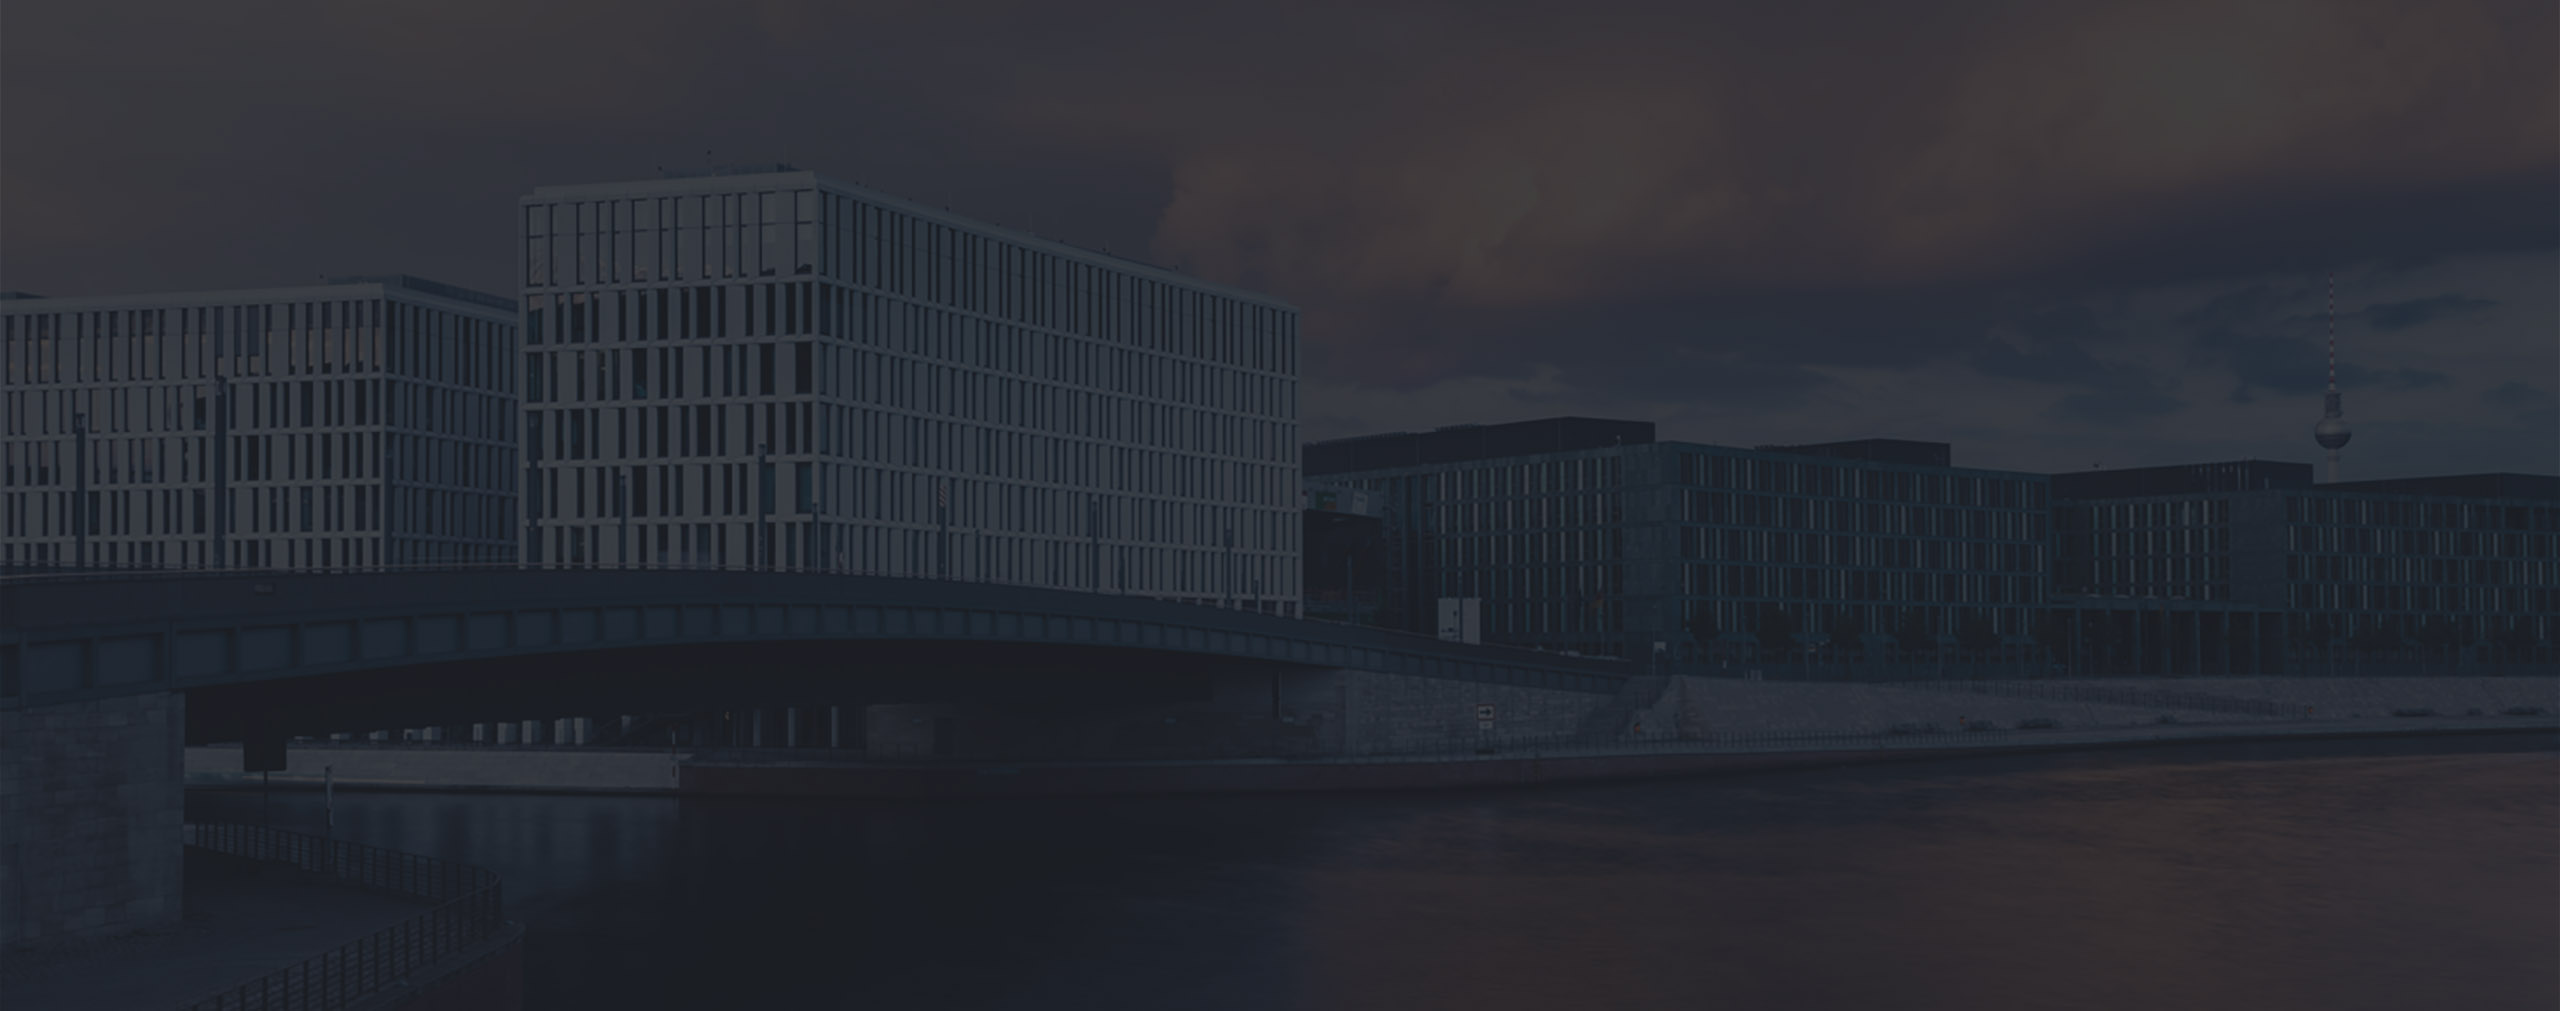
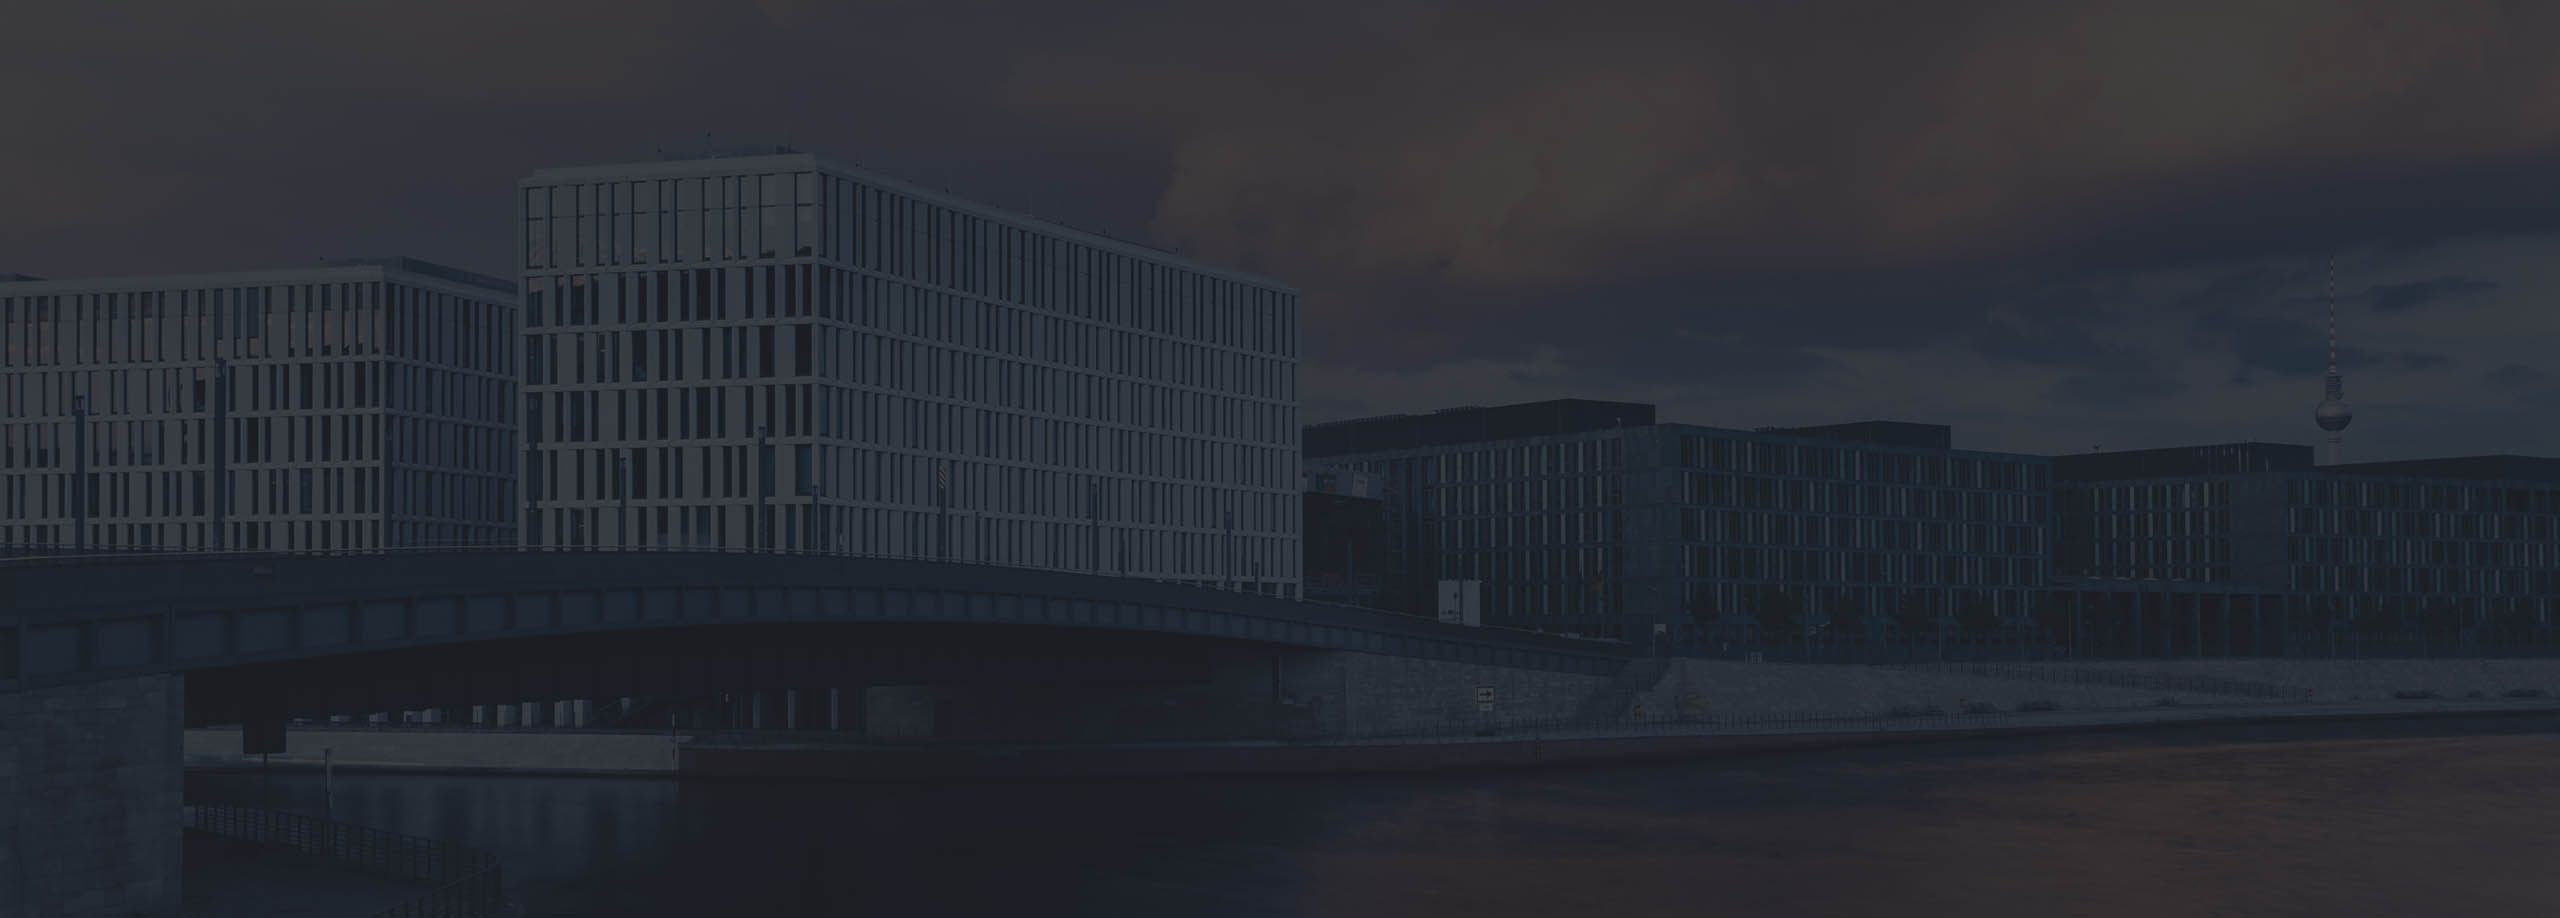
Improved bg image + improved form design

diff --git a/app/views/index.scala.html b/app/views/index.scala.html
@@ -76,26 +76,26 @@
               <div class="window-button"></div>
             </div>
             <div class="window-body">
-              <div class="form-code-i1"><span class="form-code-keyword">subscription</span> <span class="form-code-normal">@("{")</span></div>
-              <div class="form-code-i2"><span class="form-code-keyword">conferenceUpdates</span><span class="form-code-normal">(</span></div>
-              <div class="form-code-i3"><label for="topRegisterName" class="form-code-comment"># enter your name</label></div>
-              <div class="form-code-i3"><label for="topRegisterName" class="form-code-keyword">name</label><span class="form-code-normal">:</span> <span class="form-code-input">"<input type="text" class="form-control hidden-input" id="topRegisterName">"</span></div>
-              <div class="form-code-i3"><label for="topRegisterEmail" class="form-code-comment"># enter your email</label></div>
-              <div class="form-code-i3"><label for="topRegisterEmail" class="form-code-keyword">email</label><span class="form-code-normal">:</span> <span class="form-code-input">"<input type="text" class="form-control hidden-input" id="topRegisterEmail">"</span></div>
-              <div class="form-code-i2"><span class="form-code-normal">) {</span> </div>
-              <div class="form-code-i3"><span class="form-code-keyword">message</span></div>
-              <div class="form-code-i2"><span class="form-code-normal">@}</span></div>
-              <div class="form-code-i1"><span class="form-code-normal">}</span></div>
+              <div class="form-code-line-number">1</div><div class="form-code-line form-code-i1"><span class="form-code-keyword">subscription</span> <span class="form-code-normal">@("{")</span></div><br>
+              <div class="form-code-line-number">2</div><div class="form-code-line form-code-i2"><span class="form-code-keyword">conferenceUpdates</span><span class="form-code-normal">(</span></div><br>
+              <div class="form-code-line-number">3</div><div class="form-code-line form-code-i3"><label for="topRegisterName" class="form-code-comment"># enter your name</label></div><br>
+              <div class="form-code-line-number">4</div><div class="form-code-line form-code-i3"><label for="topRegisterName" class="form-code-keyword">name</label><span class="form-code-normal">:</span> <span class="form-code-input">"<input type="text" class="form-control hidden-input" id="topRegisterName">"</span></div><br>
+              <div class="form-code-line-number">5</div><div class="form-code-line form-code-i3"><label for="topRegisterEmail" class="form-code-comment"># enter your email</label></div><br>
+              <div class="form-code-line-number">6</div><div class="form-code-line form-code-i3"><label for="topRegisterEmail" class="form-code-keyword">email</label><span class="form-code-normal">:</span> <span class="form-code-input">"<input type="text" class="form-control hidden-input" id="topRegisterEmail">"</span></div><br>
+              <div class="form-code-line-number">7</div><div class="form-code-line form-code-i2"><span class="form-code-normal">) {</span> </div><br>
+              <div class="form-code-line-number">8</div><div class="form-code-line form-code-i3"><span class="form-code-keyword">message</span></div><br>
+              <div class="form-code-line-number">9</div><div class="form-code-line form-code-i2"><span class="form-code-normal">@}</span></div><br>
+              <div class="form-code-line-number">10</div><div class="form-code-line form-code-i1"><span class="form-code-normal">}</span></div><br>
               <div class="window-result" style="display: none">
-                <div class="form-code-i1"><span class="form-code-normal">@("{")</span></div>
-                <div class="form-code-i2"><span class="form-code-input">"data"</span><span class="form-code-normal">: @("{")</span></div>
-                <div class="form-code-i3"><span class="form-code-input">"conferenceUpdates"</span><span class="form-code-normal">: @("{")</span></div>
-                <div class="form-code-i4"><span class="form-code-input">"message"</span>: <span class="form-code-input">"Thanks for subscribing!"</span></div>
-                <div class="form-code-i3"><span class="form-code-normal">@("}")</span></div>
-                <div class="form-code-i2"><span class="form-code-normal">@("}")</span></div>
-                <div class="form-code-i1"><span class="form-code-normal">@("}")</span></div>
+                <div class="form-code-line form-code-i1"><span class="form-code-normal">@("{")</span></div><br>
+                <div class="form-code-line form-code-i2"><span class="form-code-input">"data"</span><span class="form-code-normal">: @("{")</span></div><br>
+                <div class="form-code-line form-code-i3"><span class="form-code-input">"conferenceUpdates"</span><span class="form-code-normal">: @("{")</span></div><br>
+                <div class="form-code-line form-code-i4"><span class="form-code-input">"message"</span>: <span class="form-code-input">"Thanks for subscribing!"</span></div><br>
+                <div class="form-code-line form-code-i3"><span class="form-code-normal">@("}")</span></div><br>
+                <div class="form-code-line form-code-i2"><span class="form-code-normal">@("}")</span></div><br>
+                <div class="form-code-line form-code-i1"><span class="form-code-normal">@("}")</span></div>
               </div>
-              <button class="execute-button"><svg width="32" height="27"><path d="M 11 9 L 24 16 L 11 23 z" fill="rgb(163, 163, 163)"></path></svg></button>
+              <button class="execute-button"><svg width="32" height="28"><path d="M 11 9 L 24 16 L 11 23 z" fill="rgb(198, 198, 201)"></path></svg></button>
             </div>
           </div>
         </div>

diff --git a/public/lib/index.css b/public/lib/index.css
@@ -60,7 +60,7 @@ body {
 }
 
 .description {
-  font-size: 3vh;
+  font-size: 4vh;
   font-weight: 400;
 }
 
@@ -75,7 +75,7 @@ body {
 }
 
 .location {
-  font-size: 2.5vh;
+  font-size: 3.5vh;
   font-weight: 100;
   padding-top: 15px;
 }
@@ -226,10 +226,18 @@ a:hover, a:active {
   animation-delay: 2.3s;
 }
 
+.subscription-form {
+  -webkit-box-shadow: 0px 10px 120px -2px rgba(31,34,40,0.25);
+  -moz-box-shadow: 0px 10px 120px -2px rgba(31,34,40,0.25);
+  box-shadow: 0px 10px 120px -2px rgba(31,34,40,0.25);
+
+  border-radius: 12px;
+}
+
 .subscription-form .window-header {
   width: 100%;
   height: 35px;
-  background-color: #d8d8d8;
+  background-color: rgb(233, 233, 236);
   border-top-left-radius: 12px;
   border-top-right-radius: 12px;
   padding-left: 10px;
@@ -239,7 +247,7 @@ a:hover, a:active {
 .subscription-form .window-button {
   height: 15px;
   width: 15px;
-  background-color: #b9b5b5;
+  background-color: rgb(198, 198, 199);
   border-radius: 50%;
   display: inline-block;
   margin-right: 5px;
@@ -247,34 +255,50 @@ a:hover, a:active {
 
 .subscription-form .window-body {
   width: 100%;
-  background-color: #eeeeee;
+  background-color: white;
   border-bottom-left-radius: 12px;
   border-bottom-right-radius: 12px;
   padding: 25px;
 }
 
+.subscription-form label {
+  margin-bottom: 0px;
+
+}
+
+.form-code-line  *, .form-code-line-number, .message-code {
+  font-family: "inconsolata","roboto-mono" !important;
+}
+
+.form-code-line, .form-code-line-number {
+  line-height: 1.7em;
+  display: inline;
+}
+
+
+.form-code-line-number {
+  width: 30px;
+  display: inline-block;
+  text-align: right;
+  padding-right: 5px;
+  color: #c6c6c9;
+}
+
+
 .form-code-i1 {
   padding-left: 15px;
-  font-family: "roboto-mono";
 }
 
 .form-code-i2 {
   padding-left: 30px;
-  font-family: "roboto-mono";
 }
 
 .form-code-i3 {
   padding-left: 45px;
-  font-family: "roboto-mono";
 }
 
 .form-code-i4 {
   padding-left: 60px;
-  font-family: "roboto-mono";
-}
-
-.message-code {
-  font-family: "roboto-mono";
 }
 
 .form-code-keyword {
@@ -282,7 +306,7 @@ a:hover, a:active {
 }
 
 .form-code-comment {
-  color: #8a8a8a;
+  color: #c6c6c9;
 }
 
 .window-result {
@@ -493,18 +517,18 @@ h2 {
   /*background: linear-gradient(#fdfdfd, #d2d3d6);*/
   background: none;
   /*border: 1px solid rgba(0,0,0,0.25);*/
-  border: 2px solid rgb(163, 163, 163);
+  border: 1px solid rgb(198, 198, 201);
   border-radius: 50%;
   /*box-shadow: 0 1px 0 #fff;*/
   cursor: pointer;
   fill: #444;
-  height: 50px;
+  height: 42px;
   margin: 0;
   padding: 0;
-  width: 50px;
+  width: 42px;
   position: absolute;
-  bottom: 21px;
-  right: 39px;
+  bottom: 11px;
+  right: 25px;
   padding-top: 4px;
 }
 
@@ -512,14 +536,14 @@ h2 {
   /*background: -webkit-linear-gradient(#e6e6e6, #c0c0c0);*/
   /*background: linear-gradient(#e6e6e6, #c0c0c0);*/
   /*box-shadow: 0 1px 0 #fff, inset 0 0 2px rgba(0, 0, 0, 0.3), inset 0 0 6px rgba(0, 0, 0, 0.2);*/
-  background-color: rgb(229, 229, 229);
+  background-color: rgb(244, 244, 244);
 }
 
 .execute-button:active {
   /*background: -webkit-linear-gradient(#e6e6e6, #c0c0c0);*/
   /*background: linear-gradient(#e6e6e6, #c0c0c0);*/
   /*box-shadow: 0 1px 0 #fff, inset 0 0 2px rgba(0, 0, 0, 0.3), inset 0 0 6px rgba(0, 0, 0, 0.2);*/
-  background-color: rgb(214, 214, 214);
+  background-color: rgb(240, 240, 240);
 }
 
 @media only screen and (max-width: 770px) {
@@ -674,7 +698,7 @@ h2 {
 /* footer from dark theme */
 
 .footer-bg {
-  background: url(/assets/image/bg-dark-alt.jpg) no-repeat center center;
+  background: url(/assets/image/bg-dark-alt1.jpg) no-repeat center center;
   background-color: #1f2228;
 }
 .subtitle-footer, .description-footer, .footer-copy {
